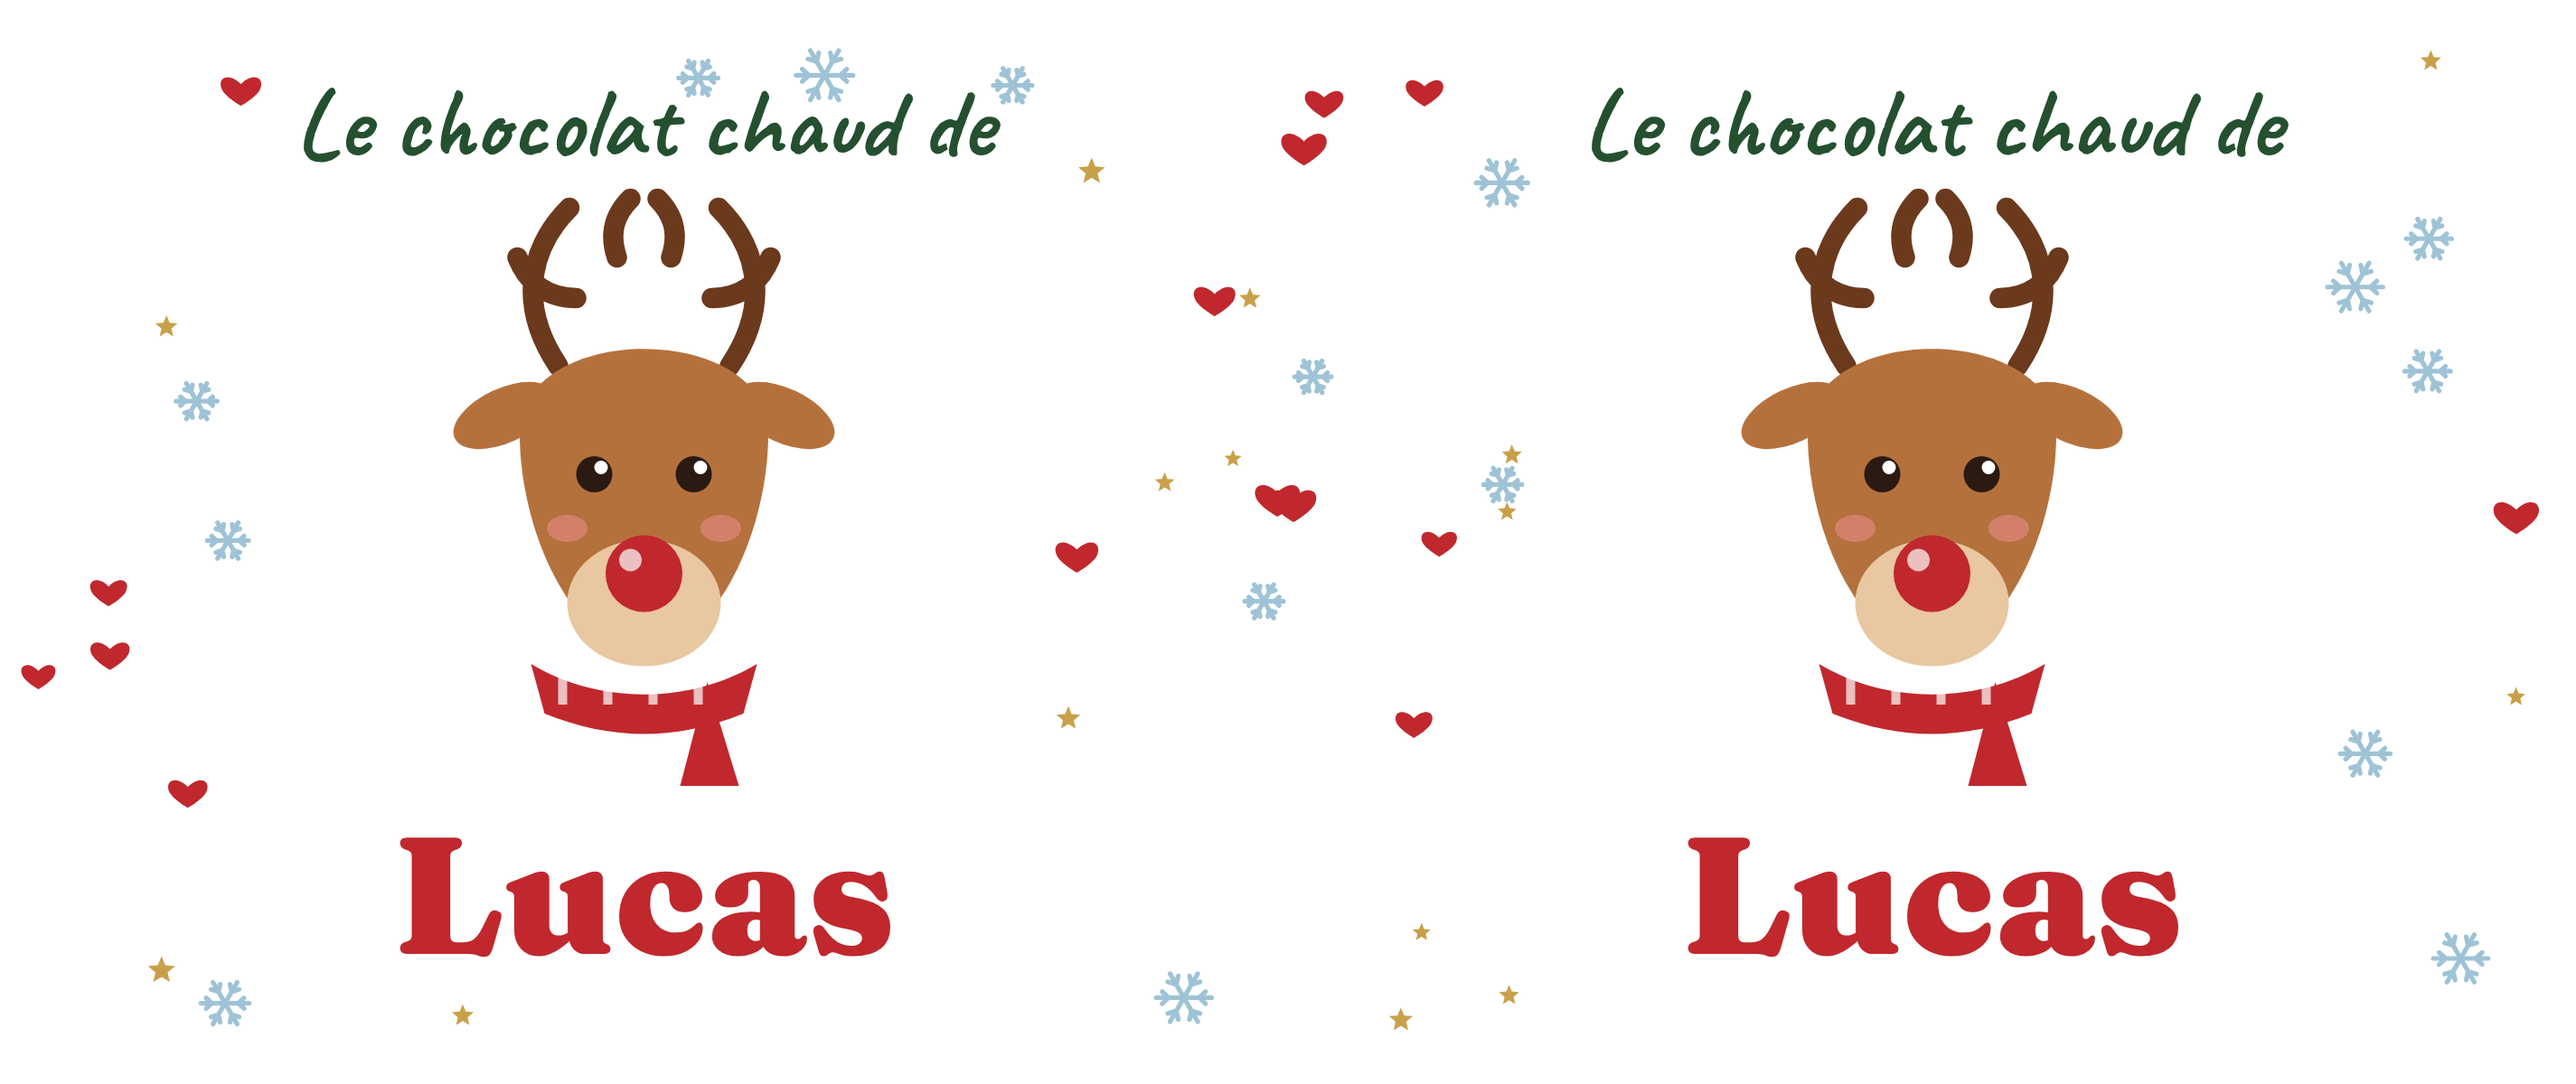
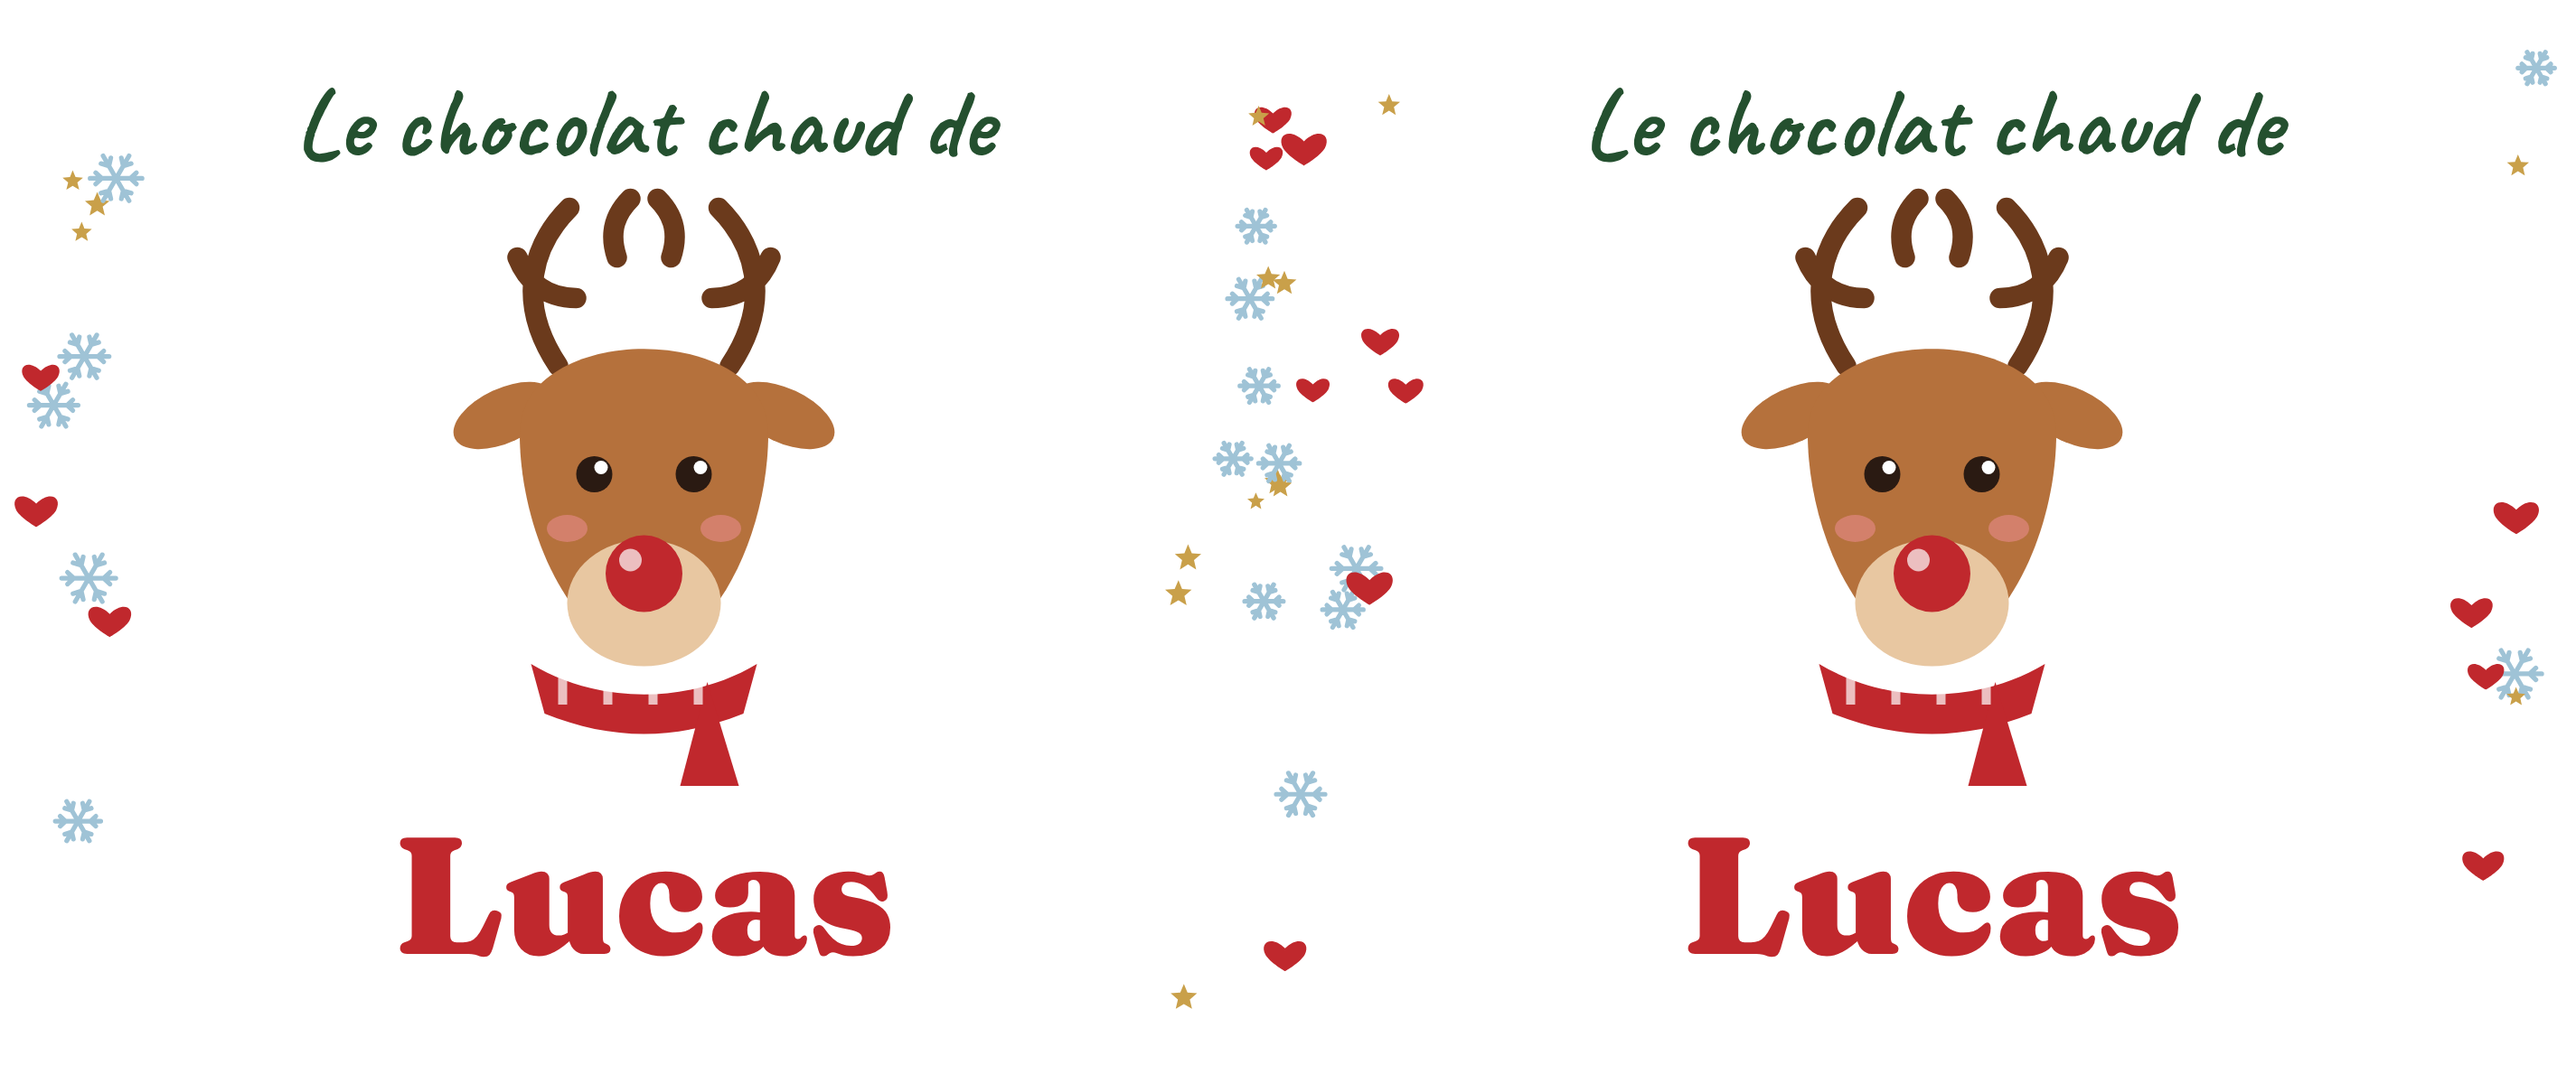
Écarte les motifs des textes sur les mugs
Claude-Session: https://claude.ai/code/session_014GDdWm3BuH8EgZGK2oQs5J

diff --git a/designs/mugs/generer-mugs-styles.js b/designs/mugs/generer-mugs-styles.js
@@ -33,12 +33,12 @@ function gingerbread(cx, cy, s = 1) { return `<g transform="translate(${cx} ${cy
 
 const D = {
   // 1. Renne mignon — enfants
-  'renne': n => { seed = 7; let s = scatter(46, (x, y) => nearSides(x, y, 230, 250), (x, y, k) => k % 3 === 0 ? flake(x, y, R(10, 16), '#9fc3d6', 2.6) : k % 3 === 1 ? heart(x, y, R(.7, 1), RED) : star(x, y, R(5, 8), GOLD));
+  'renne': n => { seed = 7; let s = scatter(46, (x, y) => nearSides(x, y, 290, 300), (x, y, k) => k % 3 === 0 ? flake(x, y, R(10, 16), '#9fc3d6', 2.6) : k % 3 === 1 ? heart(x, y, R(.7, 1), RED) : star(x, y, R(5, 8), GOLD));
     for (const c of SIDES) s += `<text x="${c}" y="86" text-anchor="middle" font-family="Caveat" font-weight="700" font-size="54" fill="${GREEN}">Le chocolat chaud de</text>
       ${reindeer(c, 290, 1.25)}<text x="${c}" y="${n ? 528 : 528}" text-anchor="middle" font-family="Fraunces" font-weight="900" font-size="${fitS(n, 92)}" fill="${RED}">${n}</text>`;
     return s; },
   // 2. Pain d'épices gourmand
-  'pain-epices': n => { seed = 11; let s = scatter(40, (x, y) => nearSides(x, y, 230, 260), (x, y, k) => k % 2 ? flake(x, y, R(10, 15), BROWN, 2.6) : `<circle cx="${x}" cy="${y}" r="${R(5, 8)}" fill="${k % 4 ? RED : GREEN}"/>`);
+  'pain-epices': n => { seed = 11; let s = scatter(40, (x, y) => nearSides(x, y, 300, 300), (x, y, k) => k % 2 ? flake(x, y, R(10, 15), BROWN, 2.6) : `<circle cx="${x}" cy="${y}" r="${R(5, 8)}" fill="${k % 4 ? RED : GREEN}"/>`);
     for (const c of SIDES) s += `<text x="${c}" y="92" text-anchor="middle" font-family="Pinyon Script" font-size="62" fill="${DBROWN}">Les petites douceurs de</text>
       ${gingerbread(c, 300, 1.05)}<text x="${c}" y="552" text-anchor="middle" font-family="Pinyon Script" font-size="${fitS(n, 112)}" fill="${RED}">${n}</text>`;
     return s; },
